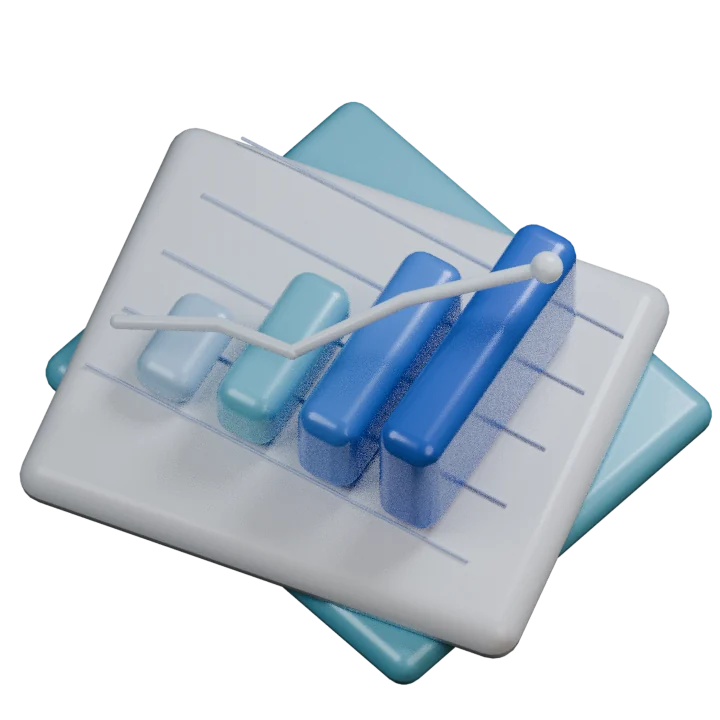
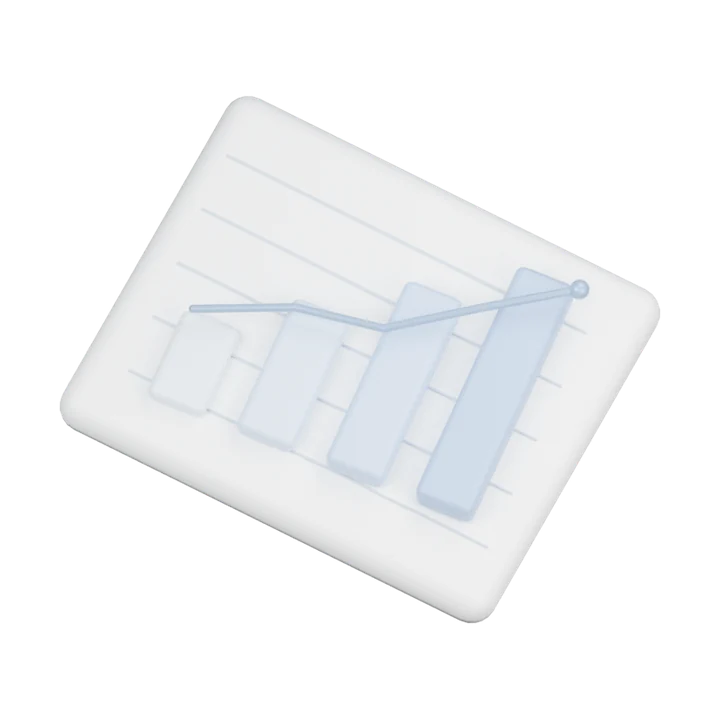
Soften the service card artwork and hover motion

diff --git a/app/(information)/services/services.css b/app/(information)/services/services.css
@@ -15,31 +15,31 @@
 .offering-text-link:hover svg { transform: translate(2px, -2px); }
 .offering-overview { display: grid; grid-template-columns: repeat(4, minmax(0, 1fr)); gap: 16px; margin-top: 60px; }
 .offering-overview-card {
-  --stage-light: #e7f2ff;
-  --stage-tone: #abcbf3;
-  --stage-shadow: #244b8b42;
-  --model-turn: -5deg;
+  --stage-light: #f4f8ff;
+  --stage-tone: #e5edf9;
+  --stage-shadow: #536f9a21;
+  --model-turn: -2deg;
   display: flex;
   flex-direction: column;
   min-width: 0;
   color: var(--offering-ink);
 }
 .offering-overview-creative {
-  --stage-light: #f0edff;
-  --stage-tone: #c3b4e9;
-  --stage-shadow: #4b427b40;
-  --model-turn: 5deg;
+  --stage-light: #f8f6fd;
+  --stage-tone: #ede8f8;
+  --stage-shadow: #6b5d8c20;
+  --model-turn: 2deg;
 }
 .offering-overview-performance {
-  --stage-light: #e9f8fc;
-  --stage-tone: #a0d1e4;
-  --stage-shadow: #2d6f9742;
+  --stage-light: #f2f9fb;
+  --stage-tone: #e4f0f5;
+  --stage-shadow: #4f788b20;
 }
 .offering-overview-social {
-  --stage-light: #fff6e9;
-  --stage-tone: #eec6ae;
-  --stage-shadow: #87543739;
-  --model-turn: 5deg;
+  --stage-light: #faf7f5;
+  --stage-tone: #f4e9e4;
+  --stage-shadow: #896e6420;
+  --model-turn: 2deg;
 }
 .offering-card-scene {
   position: relative;
@@ -51,35 +51,27 @@
   aspect-ratio: 1 / 1.04;
   border-radius: 24px;
   background:
-    radial-gradient(ellipse at 31% 21%, #fff9, transparent 57%),
-    linear-gradient(145deg, var(--stage-light) 16%, var(--stage-tone));
-}
-.offering-card-scene::before {
-  position: absolute;
-  inset: 17% -13%;
-  border: 1px solid #fff8;
-  border-radius: 50%;
-  content: '';
-  transform: rotate(-27deg);
+    radial-gradient(ellipse at 30% 18%, #fff9, transparent 66%),
+    linear-gradient(145deg, var(--stage-light), var(--stage-tone));
 }
 .offering-card-scene::after {
   position: absolute;
   z-index: -1;
-  inset: 70% 15% 13%;
+  inset: 69% 20% 15%;
   border-radius: 50%;
   background: var(--stage-shadow);
-  filter: blur(15px);
+  filter: blur(16px);
   content: '';
-  transition: transform .5s ease, opacity .5s ease;
 }
 .offering-card-model {
   position: absolute;
-  width: 104%;
+  width: 100%;
   max-width: none;
   height: auto;
   user-select: none;
   pointer-events: none;
-  transition: transform .6s cubic-bezier(.2, .7, .2, 1);
+  transform: var(--model-motion, none);
+  transition: transform .5s cubic-bezier(.2, .7, .25, 1);
 }
 .offering-card-caption {
   display: flex;
@@ -90,16 +82,16 @@
 }
 .offering-overview-card h2 { font-size: clamp(16px, 1.7vw, 22px); font-weight: 650; letter-spacing: -.035em; }
 .offering-overview-card p { margin-top: 6px; color: #5f6b7d; font-size: 13px; line-height: 1.65; }
-.offering-card-arrow { flex: none; margin-top: 6px; color: var(--offering-blue); transition: transform .3s ease; }
+.offering-card-arrow { flex: none; margin-top: 6px; color: var(--offering-blue); }
 @media (prefers-reduced-motion: no-preference) {
-  .offering-overview-card:focus-visible .offering-card-model { transform: translateY(-6%) rotateZ(var(--model-turn)) rotateY(8deg) scale(1.04); }
-  .offering-overview-card:focus-visible .offering-card-scene::after { transform: scale(.9); opacity: .6; }
-  .offering-overview-card:focus-visible .offering-card-arrow { transform: translateY(3px); }
-}
-@media (hover: hover) and (prefers-reduced-motion: no-preference) {
-  .offering-overview-card:hover .offering-card-model { transform: translateY(-6%) rotateZ(var(--model-turn)) rotateY(8deg) scale(1.04); }
-  .offering-overview-card:hover .offering-card-scene::after { transform: scale(.9); opacity: .6; }
-  .offering-overview-card:hover .offering-card-arrow { transform: translateY(3px); }
+  .offering-overview-card:focus-visible {
+    --model-motion: translateY(-2.5%) rotateZ(var(--model-turn)) rotateY(4deg);
+  }
+  @media (hover: hover) {
+    .offering-overview-card:hover {
+      --model-motion: translateY(-2.5%) rotateZ(var(--model-turn)) rotateY(4deg);
+    }
+  }
 }
 .offering-hero-footnote { display: flex; justify-content: space-between; gap: 20px; margin-top: 20px; color: #8b95a3; font-size: 11px; }
 .offering-hero-footnote span:last-child { font-size: 9px; letter-spacing: .05em; }
